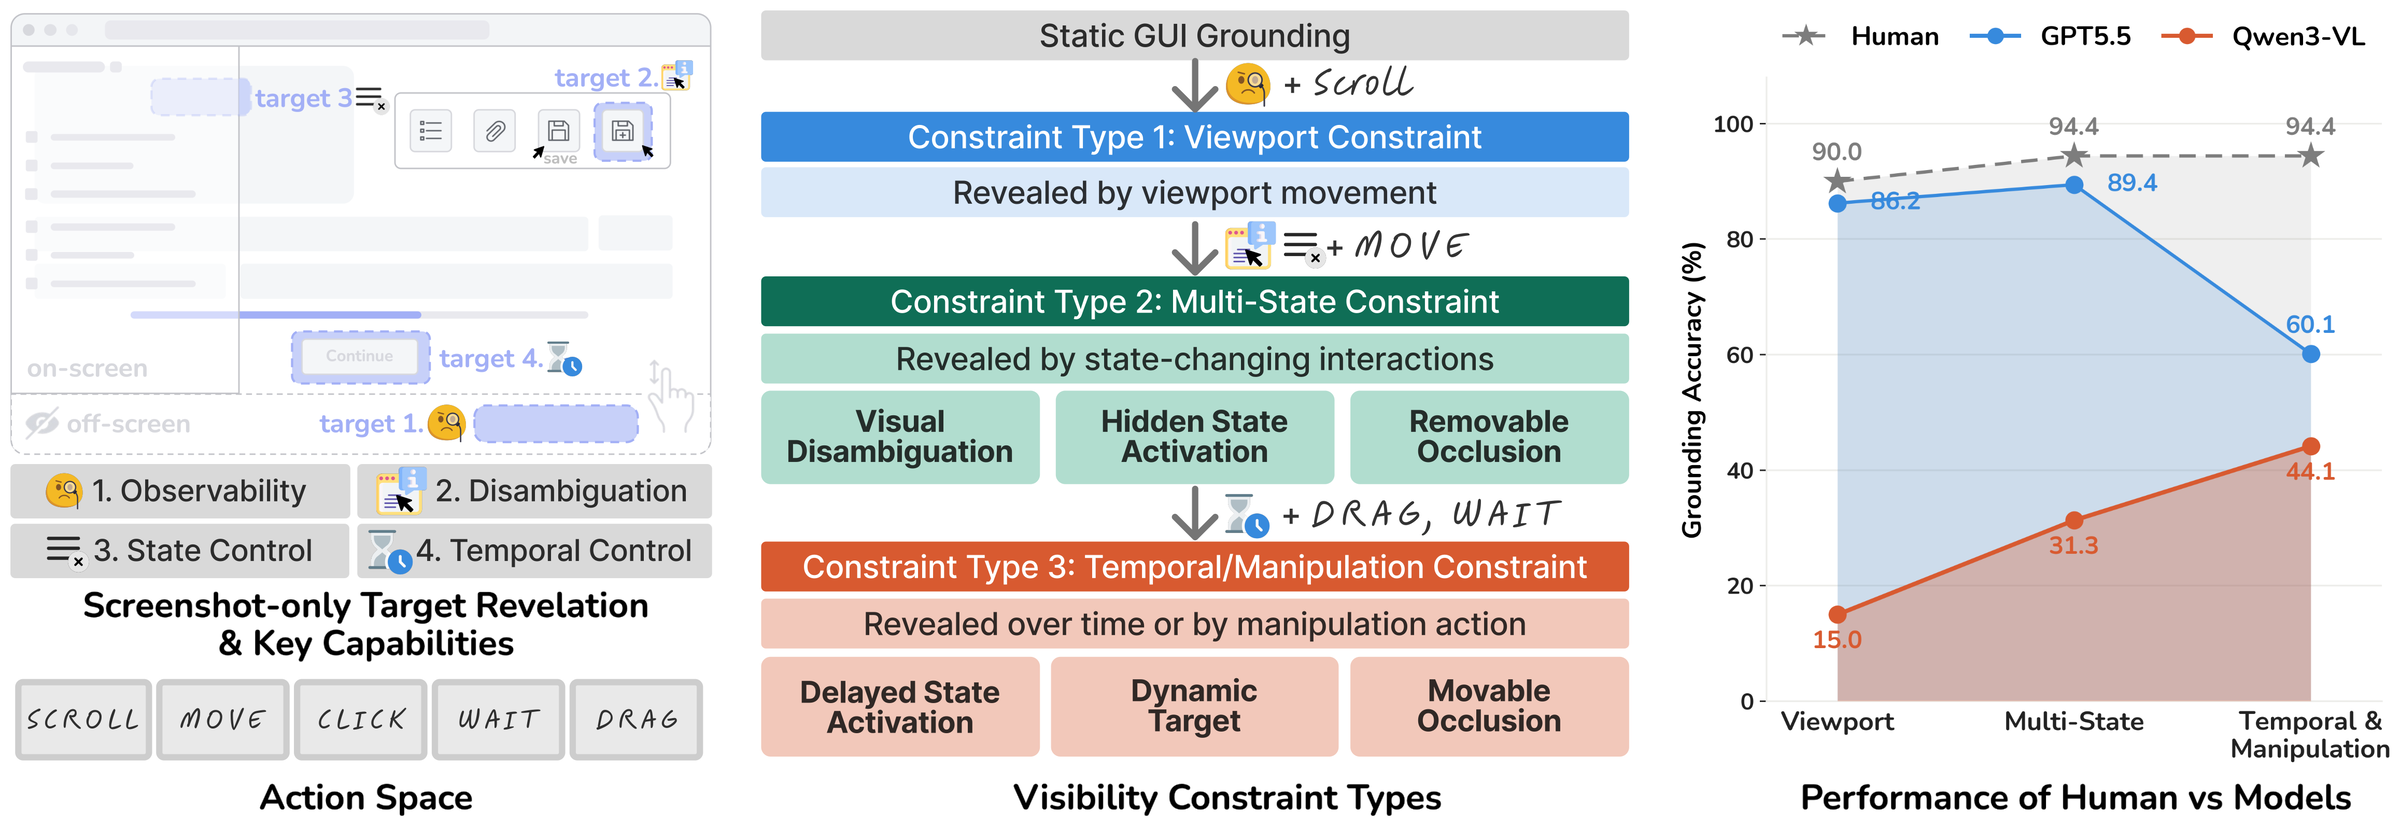
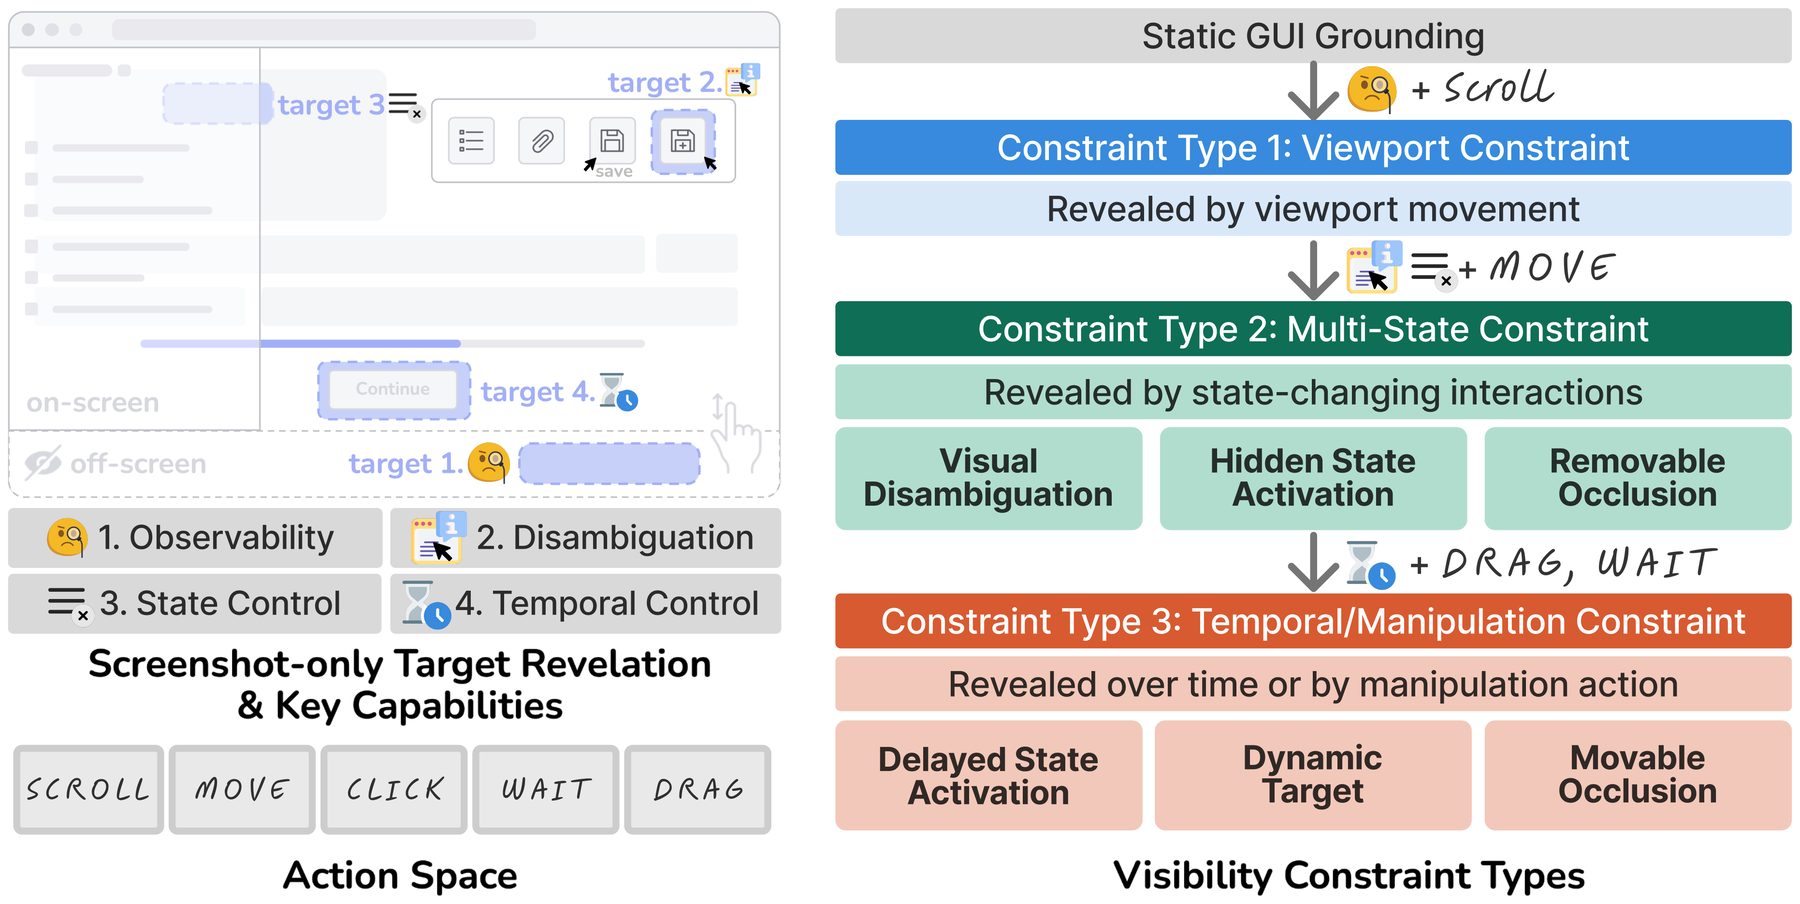
Trim project page to essentials; use Humantech figures

diff --git a/index.html b/index.html
@@ -41,15 +41,10 @@
 
 <main>
 
-<section class="container wide">
+<section class="container wide teaser">
   <figure>
-    <img src="static/fig/overview.png" alt="Overview of IGG: key capabilities and action space (left), three visibility constraint types (center), and human vs. model grounding accuracy (right)." width="2400" height="827">
-    <figcaption>
-      <b>Overview of Interactive GUI Grounding (IGG).</b>
-      <b>Left:</b> representative visibility constraints require observability, disambiguation, state control, or temporal control before the target can be clicked.
-      <b>Center:</b> these capabilities and a compact action space define the <i>Viewport</i>, <i>Multi-State</i>, and <i>Temporal/Manipulation</i> constraints.
-      <b>Right:</b> human solvability exceeds model grounding accuracy on all three constraint types.
-    </figcaption>
+    <img src="static/fig/examples.png" alt="Three IGG tasks, before (top) and after (bottom) the required interaction: scroll to reveal a document, hover to reveal a server name, wait for a Skip Ad button to activate." width="2000" height="891">
+    <figcaption>The target is often not visible when the instruction arrives. The agent has to scroll, hover, or wait before it can click it. Top: initial screen. Bottom: after the required interaction.</figcaption>
   </figure>
 </section>
 
@@ -70,164 +65,37 @@
 </section>
 
 <section class="container">
-  <h2>Task examples</h2>
+  <h2>Benchmark</h2>
   <p>
-    In every IGG task the target is <i>not</i> visible or not actionable in the first screenshot.
-    The instruction names only the target, never the procedure, so the agent has to work out which interaction exposes it.
-    An episode succeeds on the first click whose element ID matches the target.
+    601 tasks in 16 controllable environments modeled on familiar apps, grouped into three constraint types and seven sub-types.
+    The agent sees only screenshots and a goal-only instruction, acts with <code>scroll</code>, <code>move</code>, <code>drag</code>, <code>wait</code>, and <code>click</code>, and succeeds on the first click that hits the target.
   </p>
 </section>
-<section class="container wide">
+<section class="container fig-only">
   <figure>
-    <img src="static/fig/figure2_cropped.png" alt="Three example tasks: scroll to reveal a document in Document Editor, hover to reveal a server name in Community Chat, and wait for a Skip Ad button to activate in Video Platform." width="2000" height="1100" loading="lazy">
-    <figcaption>Examples of the three constraint types: viewport (scroll to reveal), multi-state (hover to disambiguate), and temporal (wait for activation).</figcaption>
+    <img src="static/fig/overview.png" alt="Left: key capabilities needed to reveal a target, and the five-action space. Right: the three visibility constraint types and their seven sub-types." width="1800" height="904" loading="lazy">
   </figure>
 </section>
 
 <section class="container">
-  <h2>The benchmark</h2>
-  <div class="split">
-    <div>
-      <p>
-        IGG has <b>601 tasks</b> across <b>16 controllable GUI environments</b> modeled on familiar applications.
-        Each environment starts from a deterministic state and gives every element a stable ID, so every click can be checked against the target at click time.
-      </p>
-      <p>Tasks fall into seven sub-types under three constraint types:</p>
-      <ul class="taxonomy">
-        <li><span class="tag t1">CT1</span> <b>Viewport</b>: scroll-based exploration</li>
-        <li><span class="tag t2">CT2</span> <b>Multi-State</b>: visual disambiguation, hidden state activation, removable occlusion</li>
-        <li><span class="tag t3">CT3</span> <b>Temporal / Manipulation</b>: delayed state activation, dynamic target interaction, movable occlusion</li>
-      </ul>
-      <p>The agent sees only screenshots, the instruction, and its own action history. The DOM, accessibility tree, and ground-truth trajectory stay hidden. It acts with five actions:</p>
-      <table class="plain actions">
-        <tbody>
-          <tr><td><code>SCROLL(dir, Δpx)</code></td><td>reveal off-screen regions</td></tr>
-          <tr><td><code>MOVE(x, y)</code></td><td>trigger hover states or disambiguating cues</td></tr>
-          <tr><td><code>DRAG(x₁, y₁, x₂, y₂)</code></td><td>move an element out of the way</td></tr>
-          <tr><td><code>WAIT(Δt)</code></td><td>let delayed or asynchronous UI settle</td></tr>
-          <tr><td><code>CLICK(x, y)</code></td><td>grounding is evaluated here</td></tr>
-        </tbody>
-      </table>
-    </div>
-    <figure class="side">
-      <img src="static/fig/distribution_v5.png" alt="Task distribution: (a) share of each constraint type and sub-type, (b) number of tasks per platform by sub-type." width="1587" height="2935" loading="lazy">
-      <figcaption>Task distribution by constraint type and sub-type (a), and per platform (b).</figcaption>
-    </figure>
-  </div>
-</section>
-
-<section class="container">
-  <h3>Environments</h3>
-  <p class="muted">Screenshots of the mockup environments. Each one is modeled on a familiar application (shown in parentheses).</p>
-  <div class="gallery">
-    <figure><img src="static/env/docs-editor.jpg" alt="" loading="lazy"><figcaption>Document Editor <span>(Google Docs)</span></figcaption></figure>
-    <figure><img src="static/env/gridly-sheet.jpg" alt="" loading="lazy"><figcaption>Spreadsheet <span>(Google Sheets)</span></figcaption></figure>
-    <figure><img src="static/env/mailo-inbox.jpg" alt="" loading="lazy"><figcaption>Email Client <span>(Gmail)</span></figcaption></figure>
-    <figure><img src="static/env/pagely-page.jpg" alt="" loading="lazy"><figcaption>Workspace Pages <span>(Notion)</span></figcaption></figure>
-    <figure><img src="static/env/dayplan-calendar.jpg" alt="" loading="lazy"><figcaption>Planner <span>(Google Calendar)</span></figcaption></figure>
-    <figure><img src="static/env/figma-canvas.jpg" alt="" loading="lazy"><figcaption>Design Canvas <span>(Figma)</span></figcaption></figure>
-    <figure><img src="static/env/devhub-repo.jpg" alt="" loading="lazy"><figcaption>Developer Hub <span>(GitHub)</span></figcaption></figure>
-    <figure><img src="static/env/devpad-editor.jpg" alt="" loading="lazy"><figcaption>Code Editor <span>(VS Code Web)</span></figcaption></figure>
-    <figure><img src="static/env/discord-server.jpg" alt="" loading="lazy"><figcaption>Community Chat <span>(Discord)</span></figcaption></figure>
-    <figure><img src="static/env/chirp-feed.jpg" alt="" loading="lazy"><figcaption>Social Feed <span>(Twitter/X)</span></figcaption></figure>
-    <figure><img src="static/env/wavr-album.jpg" alt="" loading="lazy"><figcaption>Music Player <span>(Spotify)</span></figcaption></figure>
-    <figure><img src="static/env/reelify-browse.jpg" alt="" loading="lazy"><figcaption>Streaming Service <span>(Netflix)</span></figcaption></figure>
-    <figure><img src="static/env/youtube-watch.jpg" alt="" loading="lazy"><figcaption>Video Platform <span>(YouTube)</span></figcaption></figure>
-    <figure><img src="static/env/never-home.jpg" alt="" loading="lazy"><figcaption>News Portal <span>(Google)</span></figcaption></figure>
-    <figure><img src="static/env/shopping-home.jpg" alt="" loading="lazy"><figcaption>E-commerce <span>(Walmart)</span></figcaption></figure>
-    <figure><img src="static/env/wayfind-map.jpg" alt="" loading="lazy"><figcaption>Maps <span>(Google Maps)</span></figcaption></figure>
-  </div>
-</section>
-
-<section class="container">
   <h2>Results</h2>
-  <p>
-    Grounding accuracy (GA, %) on the full 601-task benchmark, with an eight-action budget and greedy decoding.
-    Human numbers come from a separate solvability study (21 tasks, 15 participants, 315 trials).
-  </p>
-  <div class="table-wrap">
-    <table class="results">
-      <thead>
-        <tr><th>Constraint</th><th>Human<sup>†</sup></th><th>Qwen2.5-VL-7B</th><th>Qwen3-VL-8B</th><th>GUI-Owl-1.5-8B</th><th>GPT-5.5</th></tr>
-      </thead>
-      <tbody>
-        <tr class="group"><td>CT1 · Viewport</td><td>93.3</td><td>10.8</td><td>15.0</td><td>15.0</td><td><b>86.2</b></td></tr>
-        <tr class="group"><td>CT2 · Multi-State</td><td>94.8</td><td>14.6</td><td>31.3</td><td>31.3</td><td><b>89.4</b></td></tr>
-        <tr class="sub"><td>Visual Disambiguation</td><td>100.0</td><td>18.0</td><td>22.5</td><td>27.0</td><td><b>86.5</b></td></tr>
-        <tr class="sub"><td>Hidden State Activation</td><td>95.6</td><td>9.6</td><td>26.0</td><td>23.1</td><td><b>87.5</b></td></tr>
-        <tr class="sub"><td>Removable Occlusion</td><td>88.9</td><td>18.9</td><td>56.6</td><td>54.7</td><td><b>98.1</b></td></tr>
-        <tr class="group"><td>CT3 · Temporal / Manipulation</td><td>94.8</td><td>42.6</td><td>44.1</td><td>46.8</td><td><b>60.1</b></td></tr>
-        <tr class="sub"><td>Delayed State Activation</td><td>97.8</td><td>85.7</td><td><b>95.7</b></td><td>94.3</td><td><b>95.7</b></td></tr>
-        <tr class="sub"><td>Dynamic Target Interaction</td><td>97.8</td><td>32.8</td><td>25.9</td><td>36.2</td><td><b>37.9</b></td></tr>
-        <tr class="sub"><td>Movable Occlusion</td><td>88.9</td><td>1.7</td><td>1.7</td><td>1.7</td><td><b>40.0</b></td></tr>
-        <tr class="total"><td>Overall</td><td>94.6</td><td>22.3</td><td>30.8</td><td>31.6</td><td><b>79.4</b></td></tr>
-      </tbody>
-    </table>
-  </div>
-  <p class="note"><sup>†</sup>Human study on a 21-task suite; bold marks the best model.</p>
-
-  <div class="pair">
+  <div class="result-row">
     <figure>
-      <img src="static/fig/paper_fig_radar_v2_recommended.png" alt="Radar chart of GA per sub-type for humans, GPT-5.5, and open-source VLMs." width="1366" height="1044" loading="lazy">
-      <figcaption>Humans, GPT-5.5, and open-source VLMs.</figcaption>
+      <img src="static/fig/radar_subtype.png" alt="Radar chart of grounding accuracy by sub-type for Human (94.6%), GPT-5.5 (79.4%), and Qwen3-VL (30.8%)." width="1268" height="950" loading="lazy">
     </figure>
-    <figure>
-      <img src="static/fig/paper_fig_radar_v1_all_models.png" alt="Radar chart of GA per sub-type for additional model baselines." width="1410" height="1155" loading="lazy">
-      <figcaption>Additional model baselines.</figcaption>
-    </figure>
+    <div>
+      <h3>A large human&ndash;model gap</h3>
+      <p>Humans solve 94.6% of tasks. GPT-5.5 reaches 79.4%, and no open model gets past a third. Dynamic targets and movable occlusion stay hard even for GPT-5.5.</p>
+    </div>
   </div>
-</section>
-
-<section class="container">
-  <h2>Where does it fail?</h2>
-  <p>
-    We split an episode into four stages: selecting a reveal action, executing it with the right location or parameters, recognizing the target, and localizing the final click.
-    We then intervene at two of them.
-    Telling the model <i>which</i> interaction is needed barely helps.
-    Performing the interaction <i>for</i> the model recovers most of the gap.
-  </p>
-  <div class="table-wrap">
-    <table class="results narrow">
-      <thead><tr><th>Condition</th><th>Qwen3-VL</th><th>GPT-5.4 Mini (Low)</th></tr></thead>
-      <tbody>
-        <tr><td>Full task</td><td>30.8</td><td>72.4</td></tr>
-        <tr><td>Interaction specified</td><td>33.9</td><td>–</td></tr>
-        <tr><td>Reveal performed</td><td><b>81.9</b></td><td><b>90.4</b></td></tr>
-      </tbody>
-    </table>
-  </div>
-  <p>
-    So most errors happen in choosing where and how to perform the reveal, before target recognition is even tested.
-    Target-agnostic heuristics show the same split: fixed scrolling, hovering, and waiting reveal 68.8%, 61.4%, and 87.1% of their matched tasks, while popup dismissal and occluder dragging reach only 17.6% and 16.9%.
-  </p>
-</section>
-
-<section class="container">
-  <h2>Visibility recovery is learnable</h2>
-  <p>
-    Base VLMs never emit <code>DRAG</code> on the held-out tasks, so RL alone has nothing to reinforce.
-    We first run frequency-balanced SFT on human-verified trajectories to bring rare reveal actions into the policy's support, then apply online GRPO with browser-executed rewards.
-    On the 120-task held-out split this raises Qwen3-VL from 40.0% to 59.2% GA, and the same recipe gives similar gains on two other architectures.
-  </p>
-  <div class="pair">
+  <div class="result-row wide-fig">
     <figure>
-      <img src="static/fig/paper_fig_radar_training_progression.png" alt="Radar chart of per-sub-type GA for baseline, SFT, and SFT+GRPO." width="1366" height="1058" loading="lazy">
-      <figcaption>Per-sub-type gains from baseline to SFT and SFT+GRPO.</figcaption>
+      <img src="static/fig/bottleneck.png" alt="(a) Qwen3-VL accuracy: full task 30.8, interaction specified 33.9, reveal performed 81.9. (b) Before and after SFT+GRPO: Qwen3-VL 40.0 to 59.2, InternVL3.5 28.3 to 47.5, GUI-Owl-1.5 35.0 to 52.5." width="1690" height="529" loading="lazy">
     </figure>
-    <figure>
-      <img src="static/fig/paper_main_fig_action_share_training.png" alt="Bar chart of action share for baselines, SFT, and SFT+GRPO." width="2110" height="1096" loading="lazy">
-      <figcaption>Action-prior shift across baselines, SFT, and SFT+GRPO.</figcaption>
-    </figure>
-  </div>
-  <div class="table-wrap">
-    <table class="results narrow">
-      <thead><tr><th>Model (120-task val)</th><th>Base</th><th>SFT+GRPO</th></tr></thead>
-      <tbody>
-        <tr><td>Qwen3-VL-8B</td><td>40.0</td><td><b>59.2</b></td></tr>
-        <tr><td>InternVL3.5-8B</td><td>28.3</td><td><b>47.5</b></td></tr>
-        <tr><td>GUI-Owl-1.5-8B</td><td>35.0</td><td><b>52.5</b></td></tr>
-      </tbody>
-    </table>
+    <div>
+      <h3>The bottleneck is the reveal, and it is learnable</h3>
+      <p>Naming the needed interaction barely helps (30.8 &rarr; 33.9). Performing it for the model jumps to 81.9. SFT followed by online GRPO adds 17&ndash;19 points across three 8B models.</p>
+    </div>
   </div>
 </section>
 

diff --git a/style.css b/style.css
@@ -117,78 +117,6 @@ figcaption {
 }
 .wide figcaption { max-width: 880px; margin-left: auto; margin-right: auto; }
 
-.abstract { text-align: justify; hyphens: auto; }
-
-.split {
-  display: grid;
-  grid-template-columns: 1fr 340px;
-  gap: 36px;
-  align-items: start;
-}
-.side img { border: 1px solid var(--line); border-radius: 4px; }
-
-.taxonomy { list-style: none; padding: 0; margin: 0 0 16px; }
-.taxonomy li { margin-bottom: 8px; padding-left: 52px; text-indent: -52px; }
-.tag {
-  display: inline-block;
-  width: 44px;
-  text-indent: 0;
-  text-align: center;
-  font-size: 0.75rem;
-  font-weight: 700;
-  color: #fff;
-  border-radius: 3px;
-  padding: 1px 0;
-  vertical-align: 2px;
-}
-.t1 { background: var(--ct1); }
-.t2 { background: var(--ct2); }
-.t3 { background: var(--ct3); }
-
-table.plain { border-collapse: collapse; width: 100%; font-size: 0.93rem; }
-table.plain td { padding: 6px 0; border-top: 1px solid var(--line); vertical-align: top; }
-table.plain tr:last-child td { border-bottom: 1px solid var(--line); }
-table.plain td:first-child { padding-right: 16px; white-space: nowrap; }
-
-.gallery {
-  display: grid;
-  grid-template-columns: repeat(4, 1fr);
-  gap: 18px 14px;
-  margin-top: 18px;
-}
-.gallery img { border: 1px solid var(--line); border-radius: 3px; aspect-ratio: 16 / 10; object-fit: cover; }
-.gallery figcaption { margin-top: 5px; font-size: 0.82rem; color: var(--text); }
-.gallery figcaption span { color: var(--muted); }
-
-.pair {
-  display: grid;
-  grid-template-columns: 1fr 1fr;
-  gap: 24px;
-  margin: 28px 0;
-  align-items: end;
-}
-.pair figcaption { text-align: center; }
-
-/* ---------- tables ---------- */
-.table-wrap { overflow-x: auto; margin: 8px 0 6px; }
-table.results {
-  border-collapse: collapse;
-  width: 100%;
-  font-size: 0.92rem;
-  font-variant-numeric: tabular-nums;
-}
-table.results.narrow { width: auto; min-width: 420px; margin: 0 auto; }
-table.results th, table.results td { padding: 6px 12px; text-align: center; white-space: nowrap; }
-table.results th:first-child, table.results td:first-child { text-align: left; }
-table.results thead th { border-top: 2px solid var(--text); border-bottom: 1px solid var(--text); font-weight: 600; }
-table.results tbody tr:last-child td { border-bottom: 2px solid var(--text); }
-table.results tr.group td { border-top: 1px solid var(--line); font-weight: 500; }
-table.results tr.sub td:first-child { padding-left: 28px; color: var(--muted); }
-table.results tr.total td { border-top: 1px solid var(--text); font-weight: 600; }
-table.results td:nth-child(2) { color: var(--muted); }
-table.results.narrow td:nth-child(2) { color: inherit; }
-.note { font-size: 0.85rem; color: var(--muted); }
-
 /* ---------- bibtex ---------- */
 .bib { position: relative; }
 .bib pre {
@@ -227,10 +155,24 @@ footer {
   body { font-size: 16px; }
   .hero { padding-top: 40px; }
   .hero h1 { font-size: 1.65rem; }
-  .split { grid-template-columns: 1fr; }
-  .side { max-width: 420px; margin: 0 auto; }
-  .gallery { grid-template-columns: repeat(2, 1fr); }
-  .pair { grid-template-columns: 1fr; }
-  table.plain td:first-child { white-space: normal; }
-  .abstract { text-align: left; }
+}
+
+/* ---------- results rows ---------- */
+.teaser { margin-top: 24px; }
+.result-row {
+  display: grid;
+  grid-template-columns: 1.15fr 1fr;
+  gap: 32px;
+  align-items: center;
+  margin-bottom: 40px;
+}
+.result-row h3 { margin-bottom: 8px; }
+.result-row p { color: var(--muted); }
+@media (max-width: 760px) {
+  .result-row { grid-template-columns: 1fr; gap: 12px; }
+}
+.fig-only { margin-top: 24px; }
+.result-row.wide-fig { grid-template-columns: 1.6fr 1fr; }
+@media (max-width: 760px) {
+  .result-row.wide-fig { grid-template-columns: 1fr; }
 }

diff --git a/README.md b/README.md
@@ -3,4 +3,4 @@
 Project page for **IGG: A Benchmark for Interactive GUI Grounding under Visibility Constraints** (EMNLP 2026), served at <https://igg-bench.github.io>.
 
 Plain static HTML: `index.html`, `style.css`, and images in `static/`.
-Figures in `static/fig/` are rendered from the paper PDFs (`pdftocairo -png -r 220`, then trimmed).
+Figures in `static/fig/` are rendered from the EMNLP and Humantech paper PDFs.
